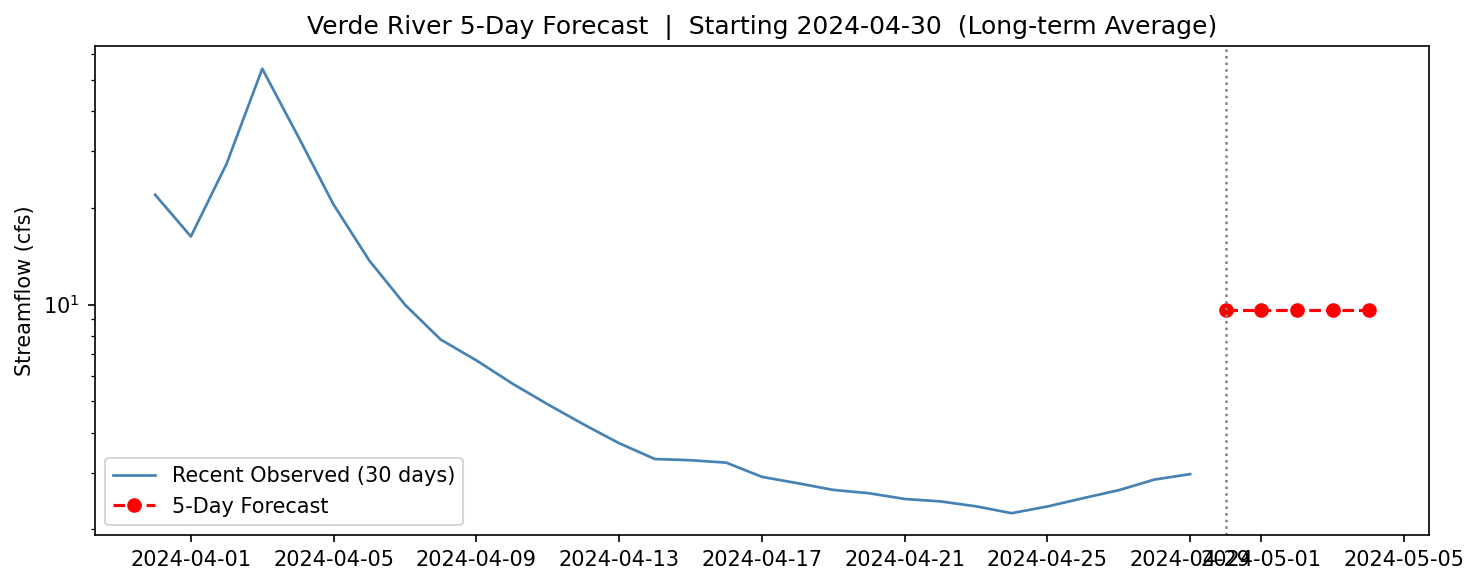
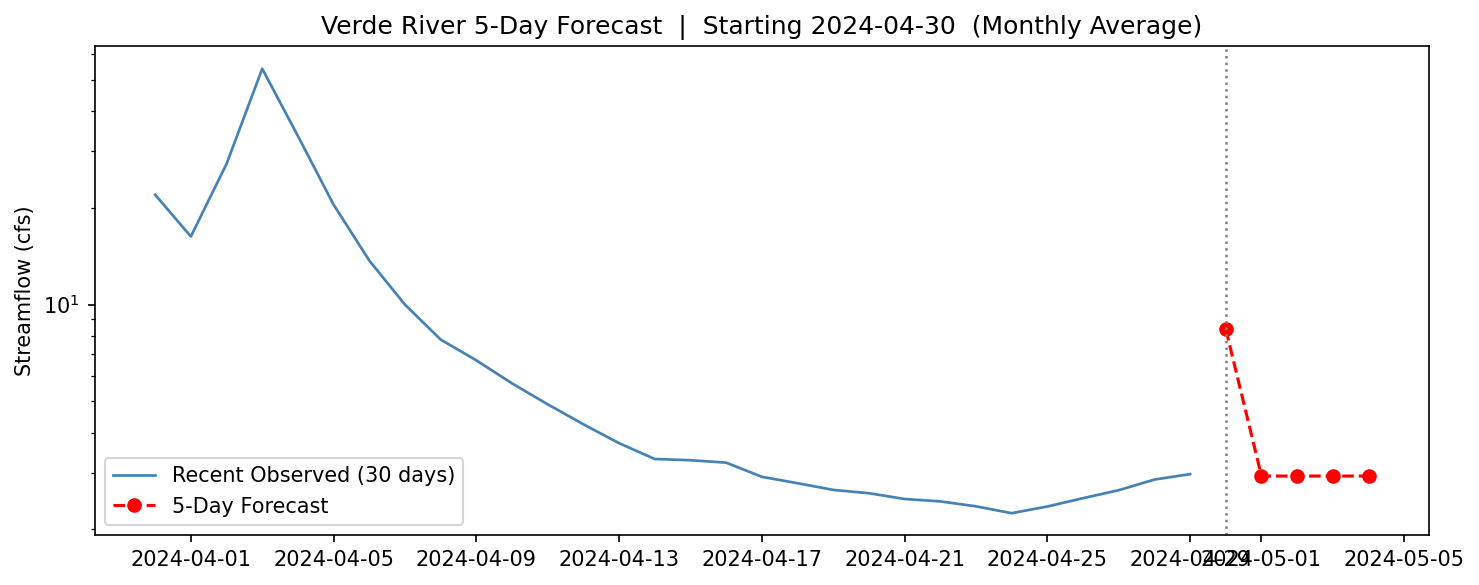
Add monthly average streamflow forecast model

Changed region(s): [[0.1866, 0.0308, 0.8398, 0.0615], [0.8087, 0.5231, 0.9331, 0.5846], [0.8398, 0.8, 0.9331, 0.8308]]

diff --git a/Week14_StreamflowForecast/train_model.py b/Week14_StreamflowForecast/train_model.py
@@ -14,10 +14,12 @@ import hf_hydrodata
 from forecast_functions import (
     get_training_test_data,
     fit_longterm_avg_model,
+    make_5day_forecast_longterm,
+    fit_monthly_avg_model,
+    make_5day_forecast_monthly,
     compute_metrics,
     plot_validation,
     save_model,
-    load_model,
 )
 
 parser = argparse.ArgumentParser()
@@ -29,7 +31,7 @@ parser.add_argument('--train-start', default='1990-01-01')
 parser.add_argument('--train-end',   default='2022-12-31')
 parser.add_argument('--test-start',  default='2023-01-01')
 parser.add_argument('--test-end',    default='2024-12-31')
-parser.add_argument('--model',       default='longterm_avg', choices=['longterm_avg'])
+parser.add_argument('--model', default='longterm_avg', choices=['longterm_avg', 'monthly_avg'])
 parser.add_argument('--refit',       default='True')
 parser.add_argument('--validate',    default='True')
 args = parser.parse_args()
@@ -78,5 +80,41 @@ if args.model == 'longterm_avg':
             forecast_series, metrics, 'Long-term Average',
             train_forecast_cfs=train_fitted
         )
+elif args.model == 'monthly_avg':
+    print("\n--- Step 2: Fit monthly average model ---")
+    monthly_means = fit_monthly_avg_model(train)
 
+    if args.refit == 'True':
+        save_model(monthly_means)
+
+    model_label = 'Monthly Average'
+
+    if args.validate == 'True':
+        print("\n--- Step 3: Validate monthly average model ---")
+
+        train_fitted = pd.Series(
+            [monthly_means[d.month] for d in train.index],
+            index=train.index
+        )
+
+        forecast_series = pd.Series(
+            [monthly_means[d.month] for d in test.index],
+            index=test.index
+        )
+
+        metrics = compute_metrics(test['streamflow_cfs'], forecast_series)
+
+        print("\nValidation metrics:")
+        for key, value in metrics.items():
+            print(f"  {key}: {value:.3f}")
+
+        plot_validation(
+            train['streamflow_cfs'],
+            test['streamflow_cfs'],
+            forecast_series,
+            metrics,
+            model_label,
+            train_forecast_cfs=train_fitted
+        )
+        
 print("\nTraining complete.")

diff --git a/Week14_StreamflowForecast/generate_forecast.py b/Week14_StreamflowForecast/generate_forecast.py
@@ -14,6 +14,7 @@ import hf_hydrodata
 from forecast_functions import (
     get_recent_data,
     make_5day_forecast_longterm,
+    make_5day_forecast_monthly,
     load_model,
 )
 
@@ -23,7 +24,7 @@ parser.add_argument('--pin',           required=True)
 parser.add_argument('--gauge-id',      default='09506000')
 parser.add_argument('--ar-order',      type=int, default=7)
 parser.add_argument('--forecast-date', default='2024-04-30')
-parser.add_argument('--model',         default='longterm_avg', choices=['longterm_avg'])
+parser.add_argument('--model', default='longterm_avg', choices=['longterm_avg', 'monthly_avg'])
 args = parser.parse_args()
 
 forecast_date_ts = pd.Timestamp(args.forecast_date)
@@ -46,6 +47,21 @@ if args.model == 'longterm_avg':
     forecast_df = make_5day_forecast_longterm(mean_flow, args.forecast_date)
     model_label = 'Long-term Average'
 
+elif args.model == 'monthly_avg':
+    print("\n--- Step 2: Load monthly average model ---")
+    monthly_means = load_model()
+
+    if not isinstance(monthly_means, dict):
+        raise TypeError(
+            "saved_model.pkl does not contain a monthly_avg model. "
+            "Re-run train_model.py with --refit True --model monthly_avg first."
+        )
+
+    print("\n--- Step 3: Generate 5-day monthly average forecast ---")
+    forecast_df = make_5day_forecast_monthly(monthly_means, args.forecast_date)
+    model_label = 'Monthly Average'
+
+    
 print(f"\n  5-Day Streamflow Forecast — Verde River ({model_label})")
 print(f"  Starting: {forecast_date_ts.date()}\n")
 print(f"  {'Date':<14}  Forecast (cfs)")

diff --git a/Week14_StreamflowForecast/forecast_functions.py b/Week14_StreamflowForecast/forecast_functions.py
@@ -167,3 +167,26 @@ def load_model(path='saved_model.pkl'):
         model = pickle.load(f)
     print(f"  Model loaded from {path}")
     return model
+
+
+def fit_monthly_avg_model(train_df):
+    """
+    Return a dictionary mapping each calendar month 1-12
+    to the mean streamflow for that month over the training period.
+    """
+    return train_df.groupby(train_df.index.month)['streamflow_cfs'].mean().to_dict()
+
+
+def make_5day_forecast_monthly(monthly_means, forecast_date, n_days=5):
+    """
+    Return a DataFrame with monthly-average forecast streamflow values.
+
+    Each forecast day is assigned the historical mean streamflow
+    for that day's calendar month.
+    """
+    dates = pd.date_range(start=forecast_date, periods=n_days, freq='D')
+    forecasts = [monthly_means[d.month] for d in dates]
+
+    return pd.DataFrame({'Forecast_cfs': forecasts}, index=dates)
+
+
